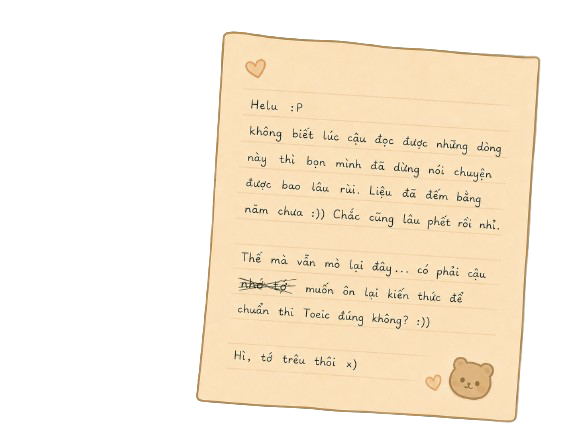
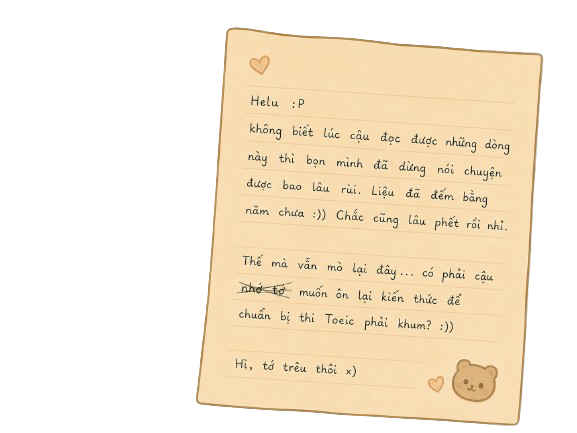
Update first reading letter page

diff --git a/index.html b/index.html
@@ -145,7 +145,7 @@
             <div id="reading-lyrics-list" class="reading-lyrics-list"></div>
         </aside>
         <img id="reading-base-letter" class="reading-base-letter" src="Images/base_letter.png" alt="Opened letter">
-        <img id="reading-first-letter" class="reading-first-letter" src="Images/Letter_firstpage.png" alt="First page of the opened letter">
+        <img id="reading-first-letter" class="reading-first-letter" src="Images/Letter_firstpage.png?v=20260507b" alt="First page of the opened letter">
     </main>
 
 
